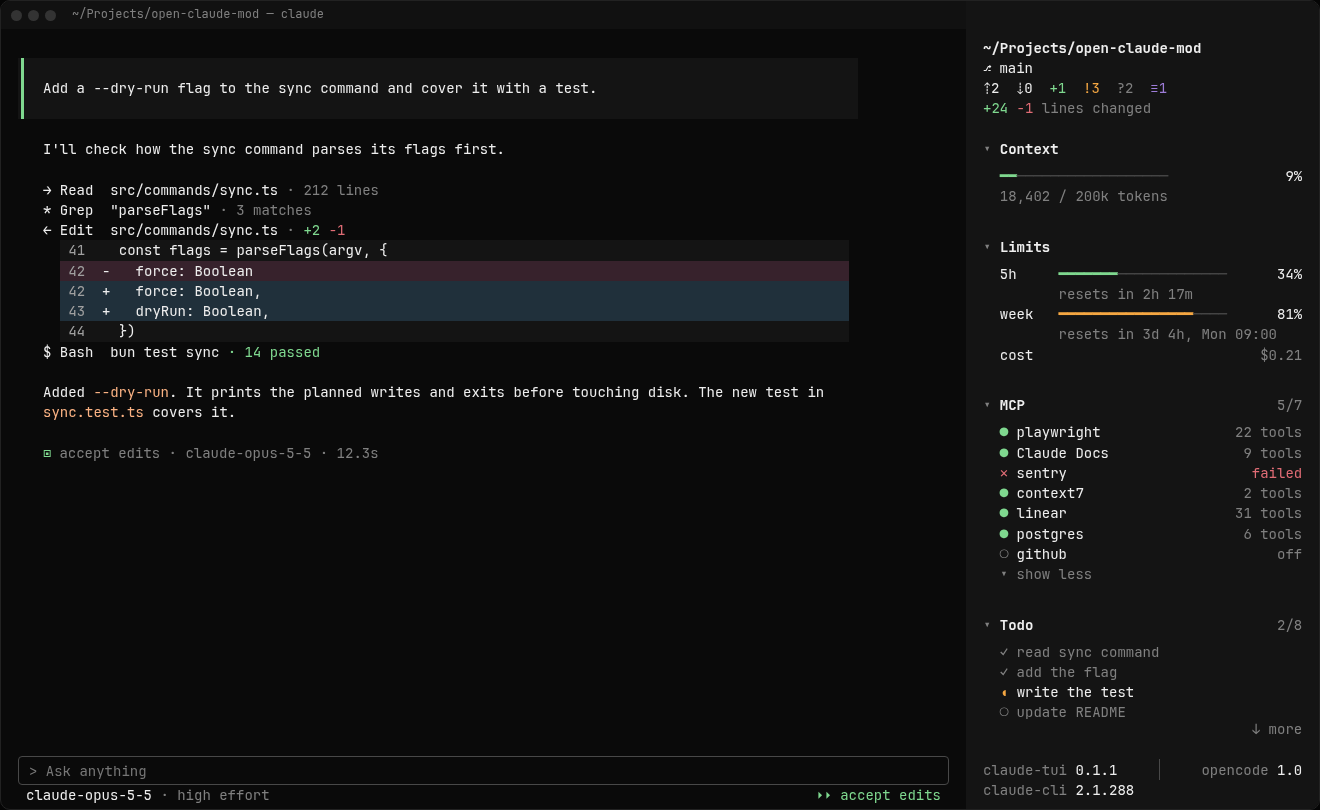
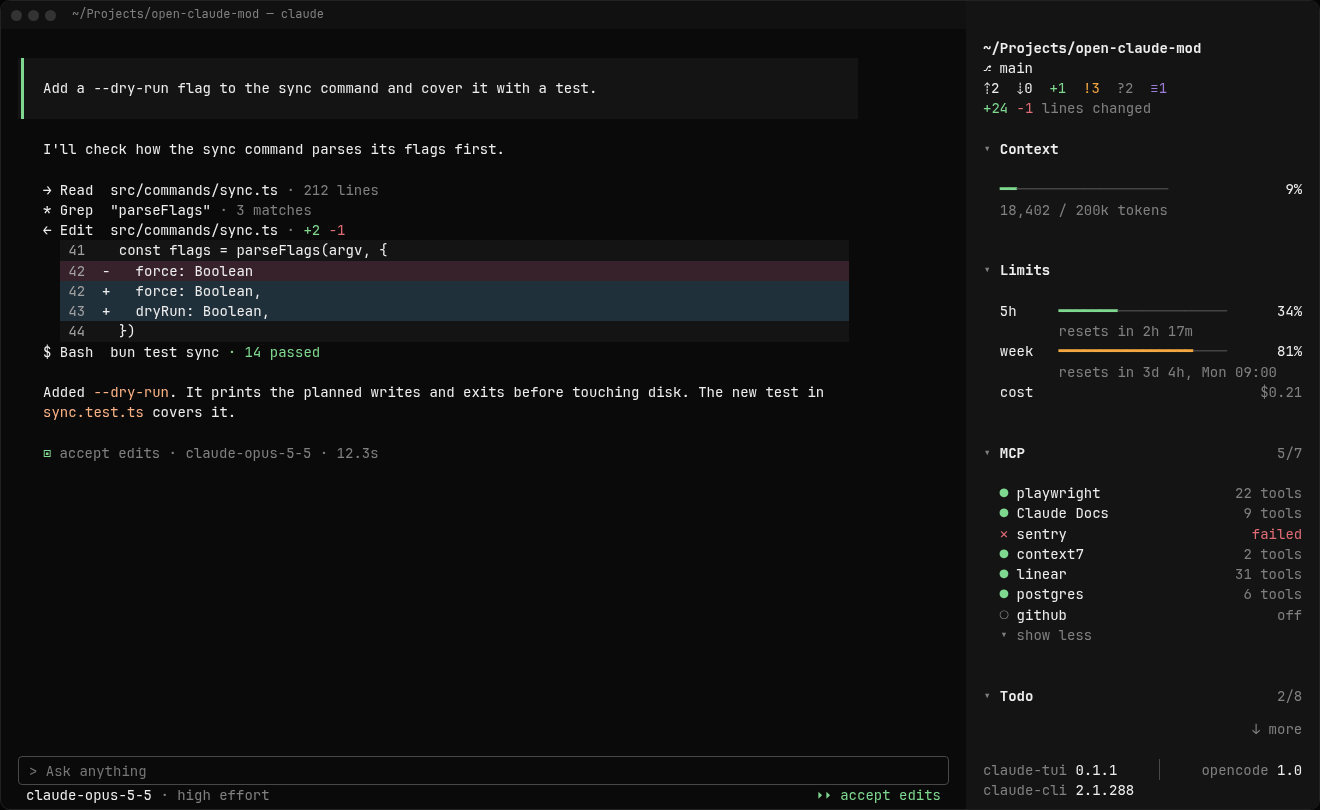
fix(sidebar): space sections in whole rows, 1 under titles and 2 apart
Claude Code 2.1.292 cuts layout down to whole cells, so #112's 1/3-row
and 1.5-row spacers drew 0 and 1–2 rows. Draw 1 row under each expanded
title and 2 after each expanded section, and count whole rows in
scrollWindow() without the float tolerance. Update the MEMORY.md entry,
the renders and the live-check row.

Refs: #120

diff --git a/ctui/tests/sidebar.test.tsx b/ctui/tests/sidebar.test.tsx
@@ -2,7 +2,7 @@ import type { ElementTable, On, RenderElement } from 'claude-code'
 import { type Engine, expect, test } from 'claude-code/testing'
 
 import { readConfig } from '../hooks/config'
-import { scrollWindow, SECTION_GAP, sidebar, type SidebarInput, TITLE_GAP } from '../hooks/sidebar'
+import { scrollWindow, sidebar, type SidebarInput } from '../hooks/sidebar'
 import { plugins } from '../plugins'
 import { colors } from '../plugins/colors'
 import type { SidebarData, SidebarPlugin } from '../plugins/plugin'
@@ -48,9 +48,10 @@ function rows(tree: RenderElement): Row[] {
     .map((child) => ({ text: text(child), props: (child as { props: Record<string, unknown> }).props }))
 }
 
-// The rows as text, with each spacer (an empty Box with a height) as its height.
-const T = TITLE_GAP
-const G = SECTION_GAP
+// The rows as text, with each spacer (an empty Box with a height) as its height:
+// 1 row under an expanded title, 2 after an expanded section (#120).
+const T = 1
+const G = 2
 function layout(tree: RenderElement): (string | number)[] {
   const root = tree as unknown as { children: ({ props: { height?: number }; children?: unknown[] } | null)[] }
   const all = root.children.filter((child) => child !== null)
@@ -59,9 +60,9 @@ function layout(tree: RenderElement): (string | number)[] {
     return !children?.length && props.height !== undefined ? props.height : row.text
   })
 }
-// Their total height, to 2 decimals.
+// Their total height in rows.
 const height = (sizes: (string | number)[]) =>
-  Math.round(sizes.reduce<number>((sum, size) => sum + (typeof size === 'number' ? size : 1), 0) * 100) / 100
+  sizes.reduce<number>((sum, size) => sum + (typeof size === 'number' ? size : 1), 0)
 
 // Draws `sidebar()` in a test Pane on the terminal surface and returns its root.
 async function draw(
@@ -135,15 +136,15 @@ test('a folded section shows its summary; folded sections sit together', async (
   expect(layout(tree)).toEqual(['▸ mcpsum 3', '▾ todo2', T, 'todo 1', 'todo 2', ''])
 })
 
-// #85: 1/3 row under an expanded title, 1.5 rows after an expanded section.
+// #120: 1 row under an expanded title, 2 rows after an expanded section.
 const three = [list('mcp', 2), list('todo', 1), { ...list('mcp', 1), id: 'agents' as const, title: 'agents' }]
 
-test('expanded sections space 1/3 row under the title and 1.5 rows apart', async ($, on) => {
+test('expanded sections space 1 row under the title and 2 rows apart', async ($, on) => {
   const { tree } = await draw($, on, { plugins: three })
   expect(layout(tree)).toEqual(['▾ mcp2', T, 'mcp 1', 'mcp 2', G, '▾ todo1', T, 'todo 1', G, '▾ agents1', T, 'mcp 1', ''])
 })
 
-test('folded sections take no spacer; an expanded one keeps its 1.5 rows before a folded one', async ($, on) => {
+test('folded sections take no spacer; an expanded one keeps its 2 rows before a folded one', async ($, on) => {
   const { tree } = await draw($, on, { plugins: three, folded: { mcp: true, agents: true } })
   expect(layout(tree)).toEqual(['▸ mcpsum 2', '▾ todo1', T, 'todo 1', G, '▸ agentssum 1', ''])
 })
@@ -152,7 +153,10 @@ test('under a selected Theme the root paint covers the spacers', async ($, on) =
   const { tree } = await draw($, on, { plugins: [list('mcp', 1), list('todo', 1)], background: '#2d353b' })
   expect(tree).toMatchObject({ props: { backgroundColor: '#2d353b' } })
   const root = tree as unknown as { children: ({ props: Record<string, unknown> } | null)[] }
-  const spacers = root.children.filter((child) => child && child.props.height !== undefined && child.props.height !== 1)
+  // Spacers are the empty Boxes with a height; the flexible space has none.
+  const spacers = root.children.filter(
+    (child) => child?.props.height !== undefined && !(child as { children?: unknown[] }).children?.length,
+  )
   expect(spacers.map((spacer) => spacer?.props)).toEqual([
     { height: T, flexShrink: 0 },
     { height: G, flexShrink: 0 },
@@ -182,7 +186,7 @@ test('a list of 4 has no toggle', async ($, on) => {
 })
 
 test('sections taller than the free rows scroll in a window', async ($, on) => {
-  // 12 body rows: 2 padding, 2 header, 1 gap, 1 gap, 2 footer leave 4 for 5 1/3 section rows.
+  // 12 body rows: 2 padding, 2 header, 1 gap, 1 gap, 2 footer leave 4 for 6 section rows.
   const plugins = [header, list('mcp', 4), footer]
   const top = await draw($, on, { plugins, bodyRows: 12 })
   // From `mcp 2` (stop 2) the rest fits under `↑ more`.
@@ -223,24 +227,25 @@ const BUSY: SidebarData = {
 const windowOf = (sizes: (string | number)[]) => sizes.slice(sizes.indexOf('') + 1, sizes.lastIndexOf(''))
 const busy = ($: Engine, on: On, scroll: number) => draw($, on, { plugins, data: BUSY, bodyRows: 34, scroll })
 
-test("#85's busy data at 34 body rows: 31.67 section rows overflow 26 free rows", async ($, on) => {
+test("#85's busy data at 34 body rows: 37 section rows overflow 26 free rows", async ($, on) => {
   const top = await busy($, on, 0)
   const window = windowOf(layout(top.tree))
-  // `↓ more` leaves 25 rows, which hold 24.83: Context, Limits, MCP, and Todo to its third task.
-  expect(window.slice(-6)).toEqual(['▾ Todo0/8', T, '○ task 0', '○ task 1', '○ task 2', '↓ more'])
-  expect(height(window)).toBe(25.83)
-  expect(window.filter((size) => size === T)).toHaveLength(4)
-  expect(window.filter((size) => size === G)).toHaveLength(3)
-  // One stop per row: from Limits' second row (stop 5) the rest, 24.5 rows,
-  // fits under `↑ more`; from its first it is 25.5.
-  expect(top.maxScroll).toBe(5)
+  // `↓ more` leaves 25 rows, which hold Context, Limits and MCP (22 rows) but
+  // not Todo's gap, title and spacer (4 more).
+  expect(window.slice(-4)).toEqual(['● server 23 tools', '● server 33 tools', '▸ 3 more', '↓ more'])
+  expect(height(window)).toBe(23)
+  expect(window.filter((size) => size === T)).toHaveLength(3)
+  expect(window.filter((size) => size === G)).toHaveLength(2)
+  // One stop per row: from Limits' last row (stop 8) the rest, 25 rows, fills
+  // the 25 under `↑ more`; from its row before it is 26.
+  expect(top.maxScroll).toBe(8)
 })
 
 test("#85's busy data scrolled to the end", async ($, on) => {
   const window = windowOf(layout((await busy($, on, 99)).tree))
-  expect(window.slice(0, 3)).toEqual(['↑ more', '      resets in 1h 0m', 'week  ━━━──────────────────────  12%'])
+  expect(window.slice(0, 4)).toEqual(['↑ more', 'spend ━────────────────────────   5%', G, '▾ MCP7/7'])
   expect(window.at(-1)).toBe('◐ Plan · plan0s')
-  expect(height(window)).toBe(25.5)
+  expect(height(window)).toBe(26)
 })
 
 test('scrollWindow marks hidden rows on both sides', () => {
@@ -255,27 +260,18 @@ test('scrollWindow marks hidden rows on both sides', () => {
   expect(scrollWindow(items, 0, 0, more).rows).toEqual([])
 })
 
-test('scrollWindow sums fractional heights; a title stop carries its spacers', () => {
+test('scrollWindow counts whole rows; a title stop carries its spacers', () => {
   const more = (text: string) => text
-  // A, its third, a; then the gap, B, its third, b: 6 1/6 rows in 4 stops.
+  // A, its spacer, a; then the gap, B, its spacer, b: 8 rows in 4 stops.
   const stops = [
     { nodes: ['A', 't'], height: 1 + T },
     { nodes: ['a'], height: 1 },
     { nodes: ['g', 'B', 't'], height: G + 1 + T },
     { nodes: ['b'], height: 1 },
   ]
-  expect(scrollWindow(stops, 7, 0, more).maxScroll).toBe(0)
-  // 6 free: `↓ more` leaves 5, which hold A and a (2 1/3) but not B's 2 5/6 more.
-  expect(scrollWindow(stops, 6, 0, more)).toEqual({ rows: ['A', 't', 'a', '↓ more'], maxScroll: 1 })
-  // From stop 1 the rest (4 5/6) fits under `↑ more`.
-  expect(scrollWindow(stops, 6, 1, more).rows).toEqual(['↑ more', 'a', 'g', 'B', 't', 'b'])
-})
-
-test('scrollWindow fits a rest that sums to whole rows despite float error', () => {
-  const more = (text: string) => text
-  // Four one-row sections, then a folded fifth: from stop 1 the rest is 15 rows,
-  // which floats sum to 15.000000000000002.
-  const section = (gap: boolean) => [{ nodes: ['title'], height: (gap ? G : 0) + 1 + T }, { nodes: ['row'], height: 1 }]
-  const stops = [...section(false), ...section(true), ...section(true), ...section(true), { nodes: ['folded'], height: G + 1 }]
-  expect(scrollWindow(stops, 16, 0, more).maxScroll).toBe(1)
+  expect(scrollWindow(stops, 8, 0, more)).toEqual({ rows: ['A', 't', 'a', 'g', 'B', 't', 'b'], maxScroll: 0 })
+  // 7 free: `↓ more` leaves 6, which hold A and a (3 rows) but not B's 4 more.
+  expect(scrollWindow(stops, 7, 0, more)).toEqual({ rows: ['A', 't', 'a', '↓ more'], maxScroll: 1 })
+  // From stop 1 the rest (6 rows) fills the 6 under `↑ more` exactly.
+  expect(scrollWindow(stops, 7, 1, more).rows).toEqual(['↑ more', 'a', 'g', 'B', 't', 'b'])
 })

diff --git a/ctui/hooks/sidebar.tsx b/ctui/hooks/sidebar.tsx
@@ -6,9 +6,10 @@ import type { Config } from './config'
 
 export const CAP = 4
 // Space under an expanded section's title, and after an expanded section
-// before the next title, in rows (#85).
-export const TITLE_GAP = 1 / 3
-export const SECTION_GAP = 1.5
+// before the next title, in whole rows: Claude Code cuts layout down to
+// whole cells (#120).
+const TITLE_GAP = 1
+const SECTION_GAP = 2
 
 export type SidebarInput = {
   ui: ElementTable<'terminal' | 'desktop'> // the surfaces that draw a Client
@@ -143,7 +144,7 @@ export function sidebar(input: SidebarInput): { tree: RenderElement; maxScroll: 
 }
 
 // A scroll stop of the sections window: its nodes and their height in rows,
-// a row's 1 plus any spacers' fractions.
+// a row's 1 plus any spacers' heights.
 export type Stop<T> = { nodes: readonly T[]; height: number }
 
 // Slices `stops` to `free` rows from stop `offset`, summing their heights,
@@ -155,22 +156,20 @@ export function scrollWindow<T>(
   offset: number,
   more: (text: string) => T,
 ): { rows: T[]; maxScroll: number } {
-  // Spacer fractions sum with float error: 14 rows can add up to 14.000000000000002.
-  const fits = (height: number, room: number) => height <= room + 1e-9
   const heightFrom = (start: number) => stops.slice(start).reduce((sum, stop) => sum + stop.height, 0)
   const nodes = (from: readonly Stop<T>[]) => from.flatMap((stop) => stop.nodes)
-  if (fits(heightFrom(0), free)) return { rows: nodes(stops), maxScroll: 0 }
+  if (heightFrom(0) <= free) return { rows: nodes(stops), maxScroll: 0 }
   if (free < 2) return { rows: free ? [more('↓ more')] : [], maxScroll: 0 }
   // The last offset: the first whose rest fits under `↑ more`.
   let maxScroll = stops.length
-  while (maxScroll > 1 && fits(heightFrom(maxScroll - 1), free - 1)) maxScroll--
+  while (maxScroll > 1 && heightFrom(maxScroll - 1) <= free - 1) maxScroll--
   const start = Math.min(Math.max(offset, 0), maxScroll)
   // The index of the first stop past `room` rows from `start`.
   const fitEnd = (room: number) => {
     let index = start
     let used = 0
     for (const stop of stops.slice(start)) {
-      if (!fits(used + stop.height, room)) break
+      if (used + stop.height > room) break
       used += stop.height
       index++
     }

diff --git a/docs/design/sidebar.html b/docs/design/sidebar.html
@@ -12,7 +12,7 @@
 
   The grid is 14px JetBrainsMono Nerd Font, the installed font the renders
   were first drawn in: 8.4px columns, 20.25px rows. The Sidebar's spacing is in
-  px from the row height, exactly: 1/3 row under an expanded title, 1.5 rows
+  whole rows, as Claude Code lays it out: 1 row under an expanded title, 2 rows
   after an expanded section, none after a folded one.
 -->
 <html lang="en">
@@ -95,8 +95,8 @@
     display: flex; flex-direction: column;
   }
   .sections { flex: 1; overflow: hidden; }
-  .title-gap { height: calc(var(--row) / 3); }
-  .section-gap { height: calc(var(--row) * 1.5); }
+  .title-gap { height: var(--row); }
+  .section-gap { height: calc(var(--row) * 2); }
   .indent { padding-left: calc(2 * var(--col)); }
   .more { text-align: right; }
   .rule { position: absolute; left: 176px; margin-top: -0.5px; width: 1px; height: 21px; background: var(--faint); }

diff --git a/MEMORY.md b/MEMORY.md
@@ -59,9 +59,9 @@ Reason: `claude plugin validate` rejects dynamic `import()`, non-literal event n
 
 Applies when: drawing the Sidebar pane, sizing it, or handling its scroll and fold state.
 
-Guidance: The dock sits beside the transcript and stops above the prompt rows. Claude Code draws its `│` rule (dim, in the theme's `inactive`), a row above the body with the `✕` at its right end, and one row below the body, all on `composerSidebarBackground`; no prop or mod drawing changes them. Draw the body with padding top/bottom 1, left/right 2 and a root Box `height` of `scroll.bodyRows`, read each render: `git` header, sections window, flexible space, `versions` footer on the last row. Request `columns` 42 below 160 terminal columns and 53 from 160. A width the person dragged or keyed the dock to (`dockColumns` in `~/.claude.json`) wins over the request. Terminal width is `e.viewport.columns + bodyColumns + 1` (`viewport.columns` is the transcript's width); on a change, re-call `$.ui.open({ id, columns })` from `$.clock.after(0, …)`, never from the render itself. A click anywhere on a section's title row, arrow, title, blank middle or count, folds or unfolds it. Space the sections with empty Box spacers of the exact fractional `height`: 1/3 row under an expanded title, 1.5 rows after an expanded section before the next title, none after a folded one; header, footer, their gaps and the padding take whole rows. Cap each long list at 4 rows plus `▸ N more` / `▾ show less`. In a row with a value at the right, give the row `columnGap: 1` and wrap the value in a `Box` with `flexShrink: 0`: only the label truncates. Scroll the sections yourself: slice rows to the free height (each row `height 1`, `flexShrink 0`; `overflow:"hidden"` shrinks rows instead of clipping), one scroll stop per row, a title's stop carrying the gap before it and the third under it, with `scrollWindow()` summing the stops' real heights; draw `↑ more` / `↓ more`, and answer `ui.scroll` for the pane with `{}` without `next`. Keep folds, expanded lists and the offset in `$.state`; a new session starts from `<id>_folded`.
+Guidance: The dock sits beside the transcript and stops above the prompt rows. Claude Code draws its `│` rule (dim, in the theme's `inactive`), a row above the body with the `✕` at its right end, and one row below the body, all on `composerSidebarBackground`; no prop or mod drawing changes them. Draw the body with padding top/bottom 1, left/right 2 and a root Box `height` of `scroll.bodyRows`, read each render: `git` header, sections window, flexible space, `versions` footer on the last row. Request `columns` 42 below 160 terminal columns and 53 from 160. A width the person dragged or keyed the dock to (`dockColumns` in `~/.claude.json`) wins over the request. Terminal width is `e.viewport.columns + bodyColumns + 1` (`viewport.columns` is the transcript's width); on a change, re-call `$.ui.open({ id, columns })` from `$.clock.after(0, …)`, never from the render itself. A click anywhere on a section's title row, arrow, title, blank middle or count, folds or unfolds it. Space the sections with empty Box spacers in whole rows: `height` 1 under an expanded title, 2 after an expanded section before the next title, none after a folded one; header, footer, their gaps and the padding take whole rows too. Cap each long list at 4 rows plus `▸ N more` / `▾ show less`. In a row with a value at the right, give the row `columnGap: 1` and wrap the value in a `Box` with `flexShrink: 0`: only the label truncates. Scroll the sections yourself: slice rows to the free height (each row `height 1`, `flexShrink 0`; `overflow:"hidden"` shrinks rows instead of clipping), one scroll stop per row, a title's stop carrying the gap before it and the row under it, with `scrollWindow()` summing the stops' heights in whole rows; draw `↑ more` / `↓ more`, and answer `ui.scroll` for the pane with `{}` without `next`. Keep folds, expanded lists and the offset in `$.state`; a new session starts from `<id>_folded`.
 
-Reason: #8 verified the chrome, the viewport width and the overflow shrink live on 2.1.288. The `✕` moved from the body's top-right cell to its own row on 2.1.291 (#79). #87 rechecked the chrome, the 42/53 widths (150 and 170 columns) and `bodyRows` (34 in a 40-row terminal) live on 2.1.292. The human chose to accept the chrome, opencode's padding, the 42/53 width, render 2's caps, and the mod-owned scroll after trying it live. In #85 the human set the spacing (variant B, 1.5 over 2 rows) and required the fractions as given, never rounded to whole rows.
+Reason: #8 verified the chrome, the viewport width and the overflow shrink live on 2.1.288. The `✕` moved from the body's top-right cell to its own row on 2.1.291 (#79). #87 rechecked the chrome, the 42/53 widths (150 and 170 columns) and `bodyRows` (34 in a 40-row terminal) live on 2.1.292. The human chose to accept the chrome, opencode's padding, the 42/53 width, render 2's caps, and the mod-owned scroll after trying it live. Claude Code cuts every laid-out box down to whole cells (`top|0`, `height|0`, checked on 2.1.292), so a fractional spacer draws 0 or 1–2 rows and the rows after it shift; the Sidebar's `Box` spacing comes in whole rows. After a live spike in #120 the human chose 1 row under expanded titles and 2 between sections, drawn as empty Boxes of whole-row height rather than a transparent `Image`, which needs a graphics protocol and tmux passthrough.
 
 ## The Sidebar shows only when docked, and the person can't close it
 

diff --git a/docs/testing/live-checks.md b/docs/testing/live-checks.md
@@ -33,7 +33,7 @@ Fullscreen means the `"tui": "fullscreen"` setting or `CLAUDE_CODE_NO_FLICKER=1`
 | Detached HEAD (`git checkout --detach`) | Wait 5 s | Row 2 reads `⎇ <7-char sha>`. |
 | A directory outside any repo | Start a session there | The header is the path alone. |
 | Sidebar docked | Look at the body and its frame | Padding: 1 row above and below, 2 columns left and right. Claude Code draws the `│` rule, the `✕` and the row under the body. The footer is one row on the body's last row: `ctui <plugin.json version> │ claude-cli <pinned version>`, names in `inactive`, versions in `text`, the `│` in `subtle`, with no update icon. It fits at 42 and at 53 columns. Each section header reads `▾` in `inactive`, then its title in bold `text`. |
-| Sidebar docked, every section expanded, at 42 columns and again at 53 (160+ terminal columns) | Look at the sections at rest; fold MCP and Agents & shells; then expand them and scroll the sections down and back | At rest: 1/3 row of space under each section title before its first row, and 1.5 rows after each section before the next title. A folded title has no space under it and none after it, and the next title follows directly. While scrolled, the same spacing holds inside the window, `↑ more` / `↓ more` stay one row each, and the header, its gap, the footer and the padding don't move. |
+| Sidebar docked, every section expanded, at 42 columns and again at 53 (160+ terminal columns) | Look at the sections at rest; fold MCP and Agents & shells; then expand them and scroll the sections down and back | At rest: 1 row of space under each expanded section title before its first row, and 2 rows after each expanded section before the next title. A folded title has no space under it and none after it, and the next title follows directly. While scrolled, the same spacing holds inside the window, `↑ more` / `↓ more` stay one row each, and the header, its gap, the footer and the padding don't move. |
 | Sidebar docked, `inherit`, a custom theme in `~/.claude/themes/` picked in `/theme` | Change that file's `text`, `inactive` and `subtle` to new colors and save it (or switch Omarchy themes, which rewrites `~/.claude/themes/omarchy.json`); then pick the built-in `dark` theme in `/theme`, then `light` | Within a second each time, every Sidebar row recolors, the main text included: path, branch, section titles and versions follow `text`. No row keeps the terminal's own foreground. |
 | Sidebar docked, `/ctui:theme everforest`, `/theme` on built-in `dark` | Look at the body; scroll it, fold a section, widen the terminal past 160 columns and back, and rewrite the active `/theme` file or pick another `/theme` | Every body cell, padding included, shows one flat `#363d41` through each step, with no stripes between rows. The `│` rule column, the `✕` row and the row below keep the `dark` dock color, so a frame shows. |
 | The previous row | Pick `Everforest` in `/theme` too | The frame turns `#363d41` and goes away against the body. |
